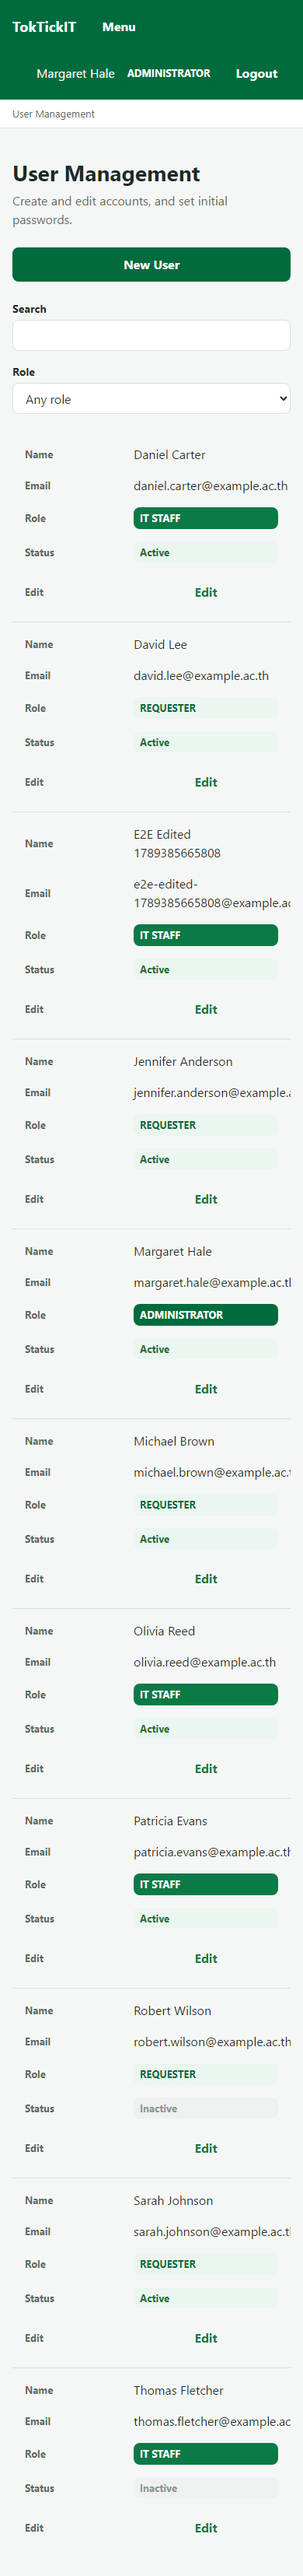
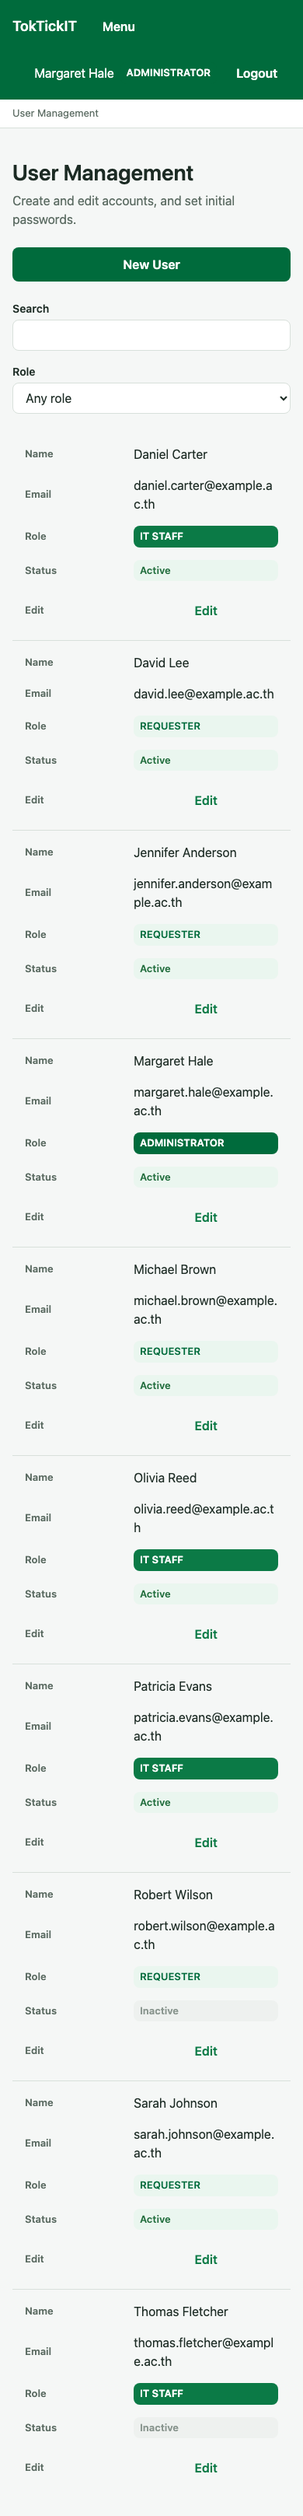
fix(lab-03): wrap user emails on mobile (#80)

diff --git a/e2e/lab-03/user-administration.spec.ts b/e2e/lab-03/user-administration.spec.ts
@@ -40,6 +40,43 @@ async function signInThroughTheScreen(
   await page.getByRole('button', { name: 'Sign in' }).click()
 }
 
+async function expectEmailValuesNotToBeClipped(
+  page: import('@playwright/test').Page,
+): Promise<void> {
+  const layout = await page.locator('.user-management__table').evaluate((table) => {
+    const cells = Array.from(
+      table.querySelectorAll<HTMLTableCellElement>(
+        'tbody td[data-label="Email"]',
+      ),
+    )
+    const clipped = cells.some((cell) => {
+      const cellBounds = cell.getBoundingClientRect()
+      const range = document.createRange()
+      range.selectNodeContents(cell)
+      return Array.from(range.getClientRects()).some(
+        (rect) => rect.left < cellBounds.left - 1 || rect.right > cellBounds.right + 1,
+      )
+    })
+
+    return {
+      hasEmailCells:
+        cells.length > 0 && cells.every((cell) => Boolean(cell.textContent?.trim())),
+      clippedEmail: clipped,
+      horizontalPageScroll:
+        Math.max(
+          document.documentElement.scrollWidth,
+          document.body?.scrollWidth ?? 0,
+        ) > window.innerWidth,
+    }
+  })
+
+  expect(layout, 'AC-34 / RESP-04: every email value must fit its list cell').toEqual({
+    hasEmailCells: true,
+    clippedEmail: false,
+    horizontalPageScroll: false,
+  })
+}
+
 test('ADMIN-01 · AC-34 captures the user list at three viewports', async ({ page }) => {
   await signIn(page, ADMIN)
 
@@ -48,7 +85,13 @@ test('ADMIN-01 · AC-34 captures the user list at three viewports', async ({ pag
     await page.goto('/admin/users')
     await expect(page.getByRole('heading', { name: 'User Management' })).toBeVisible()
     await expect(page.getByText('Jennifer Anderson')).toBeVisible()
+    await expectEmailValuesNotToBeClipped(page)
     await captureLab3Screenshot(page, 'user-management', `${viewport.name}-list.png`)
+    if (viewport.name === 'mobile') {
+      await page.screenshot({
+        path: 'artifacts/lab-03/screenshots/user-management/mobile-email-wrap.png',
+      })
+    }
   }
 })
 

diff --git a/client/src/index.css b/client/src/index.css
@@ -1196,6 +1196,10 @@ body {
     overflow-wrap: anywhere;
   }
 
+  .user-management__table td[data-label="Email"] {
+    overflow-wrap: anywhere;
+  }
+
   .my-tickets__skeleton {
     padding: var(--zen-space-2) var(--zen-space-4);
   }

diff --git a/docs/lab-03/ui-spec.md b/docs/lab-03/ui-spec.md
@@ -230,6 +230,7 @@ Both are enforced server-side; these are how the refusal reads.
 Lab 2's three viewports and rules are unchanged. Two additions:
 
 - The Queue and User Management tables become cards below 768 px.
+- User Management email values wrap within their mobile card cells; full values stay visible without horizontal page overflow (RESP-04).
 - The Login and Change Password cards are full-width with 16 px margins below 768 px, and never exceed 420 px above it.
 
 ## 12. Screenshot paths
@@ -244,7 +245,7 @@ staff-queue/        desktop-list · tablet-list · mobile-cards ·
 staff-ticket-detail/ desktop-detail · tablet-detail · mobile-detail ·
                     comments-and-notes
 user-management/    desktop-list · mobile-list · create-dialog ·
-                    duplicate-email · last-administrator
+                    duplicate-email · last-administrator · mobile-email-wrap
 ```
 
 The three refusal captures — `login-failure`, `duplicate-email`, `last-administrator` — are named explicitly because Parts 5 and 8 ask for them and a happy-path-only capture session will not produce them.
@@ -252,7 +253,9 @@ The three refusal captures — `login-failure`, `duplicate-email`, `last-adminis
 The post-audit evidence also includes `authentication/admin-created-change-password.png`,
 `staff-ticket-detail/attachments.png`, `staff-ticket-detail/failure.png`,
 `user-management/edit-dialog.png`, `user-management/reset-confirmation.png`, and
-`user-management/self-deactivation-refused.png`.
+`user-management/self-deactivation-refused.png`. The additional
+`user-management/mobile-email-wrap.png` is a viewport-only capture showing the
+longest seeded email wrapping fully inside its mobile card.
 
 ## 13. Visual inspection checklist
 

diff --git a/docs/lab-03/tests.md b/docs/lab-03/tests.md
@@ -195,7 +195,7 @@ registration applies the policy.
 | RESP-01 | AC-34 | Login and Change Password at three viewports | No overflow, clipping, or overlap; screenshots captured | `e2e/lab-03/authentication.spec.ts` | Pass |
 | RESP-02 | AC-34 | Staff Queue at three viewports | Readable at mobile; controls reachable; screenshots captured | `e2e/lab-03/staff-ticket-flow.spec.ts` | Pass |
 | RESP-03 | AC-34 | Staff Ticket Detail at three viewports | Comments and notes readable and distinct; screenshots captured | `e2e/lab-03/staff-ticket-flow.spec.ts`, `e2e/lab-03/comments-and-notes.spec.ts` | Pass |
-| RESP-04 | AC-34 | User Management at three viewports | List usable at mobile; screenshots captured | `e2e/lab-03/user-administration.spec.ts` | Pass |
+| RESP-04 | AC-34 | User Management at three viewports | Every email value fits its cell; no horizontal page overflow; full-page and mobile-viewport evidence captured | `e2e/lab-03/user-administration.spec.ts` | Pass |
 | E2E-01 | AC-01, AC-02, AC-04 | Authentication journey | Log in with an initial password → forced change → application opens → log out → protected URL refused | `e2e/lab-03/authentication.spec.ts` | Pass |
 | E2E-02 | AC-18, AC-20, AC-25 | Staff ticket journey | Queue → open → claim → set IT Priority → status change → Public Comment → Internal Note | `e2e/lab-03/staff-ticket-flow.spec.ts`, `e2e/lab-03/comments-and-notes.spec.ts` | Pass |
 | E2E-03 | AC-28, AC-31, AC-33 | User administration journey | Create user with initial password → that user logs in and must change it → self-deactivation refused | `e2e/lab-03/user-administration.spec.ts` | Pass |

diff --git a/docs/lab-03/submission.md b/docs/lab-03/submission.md
@@ -338,8 +338,8 @@ active Administrator and both succeed.
 between render and submit, so a client-side guard would be wrong at exactly the moment it
 mattered. The attempt reaches the server and the server's message is shown.
 
-> **Screenshots:** `artifacts/lab-03/screenshots/user-management/` — nine captures
-> including both refusals.
+> **Screenshots:** `artifacts/lab-03/screenshots/user-management/` — ten captures
+> including both refusals and the mobile email-wrap viewport evidence.
 
 ---
 
